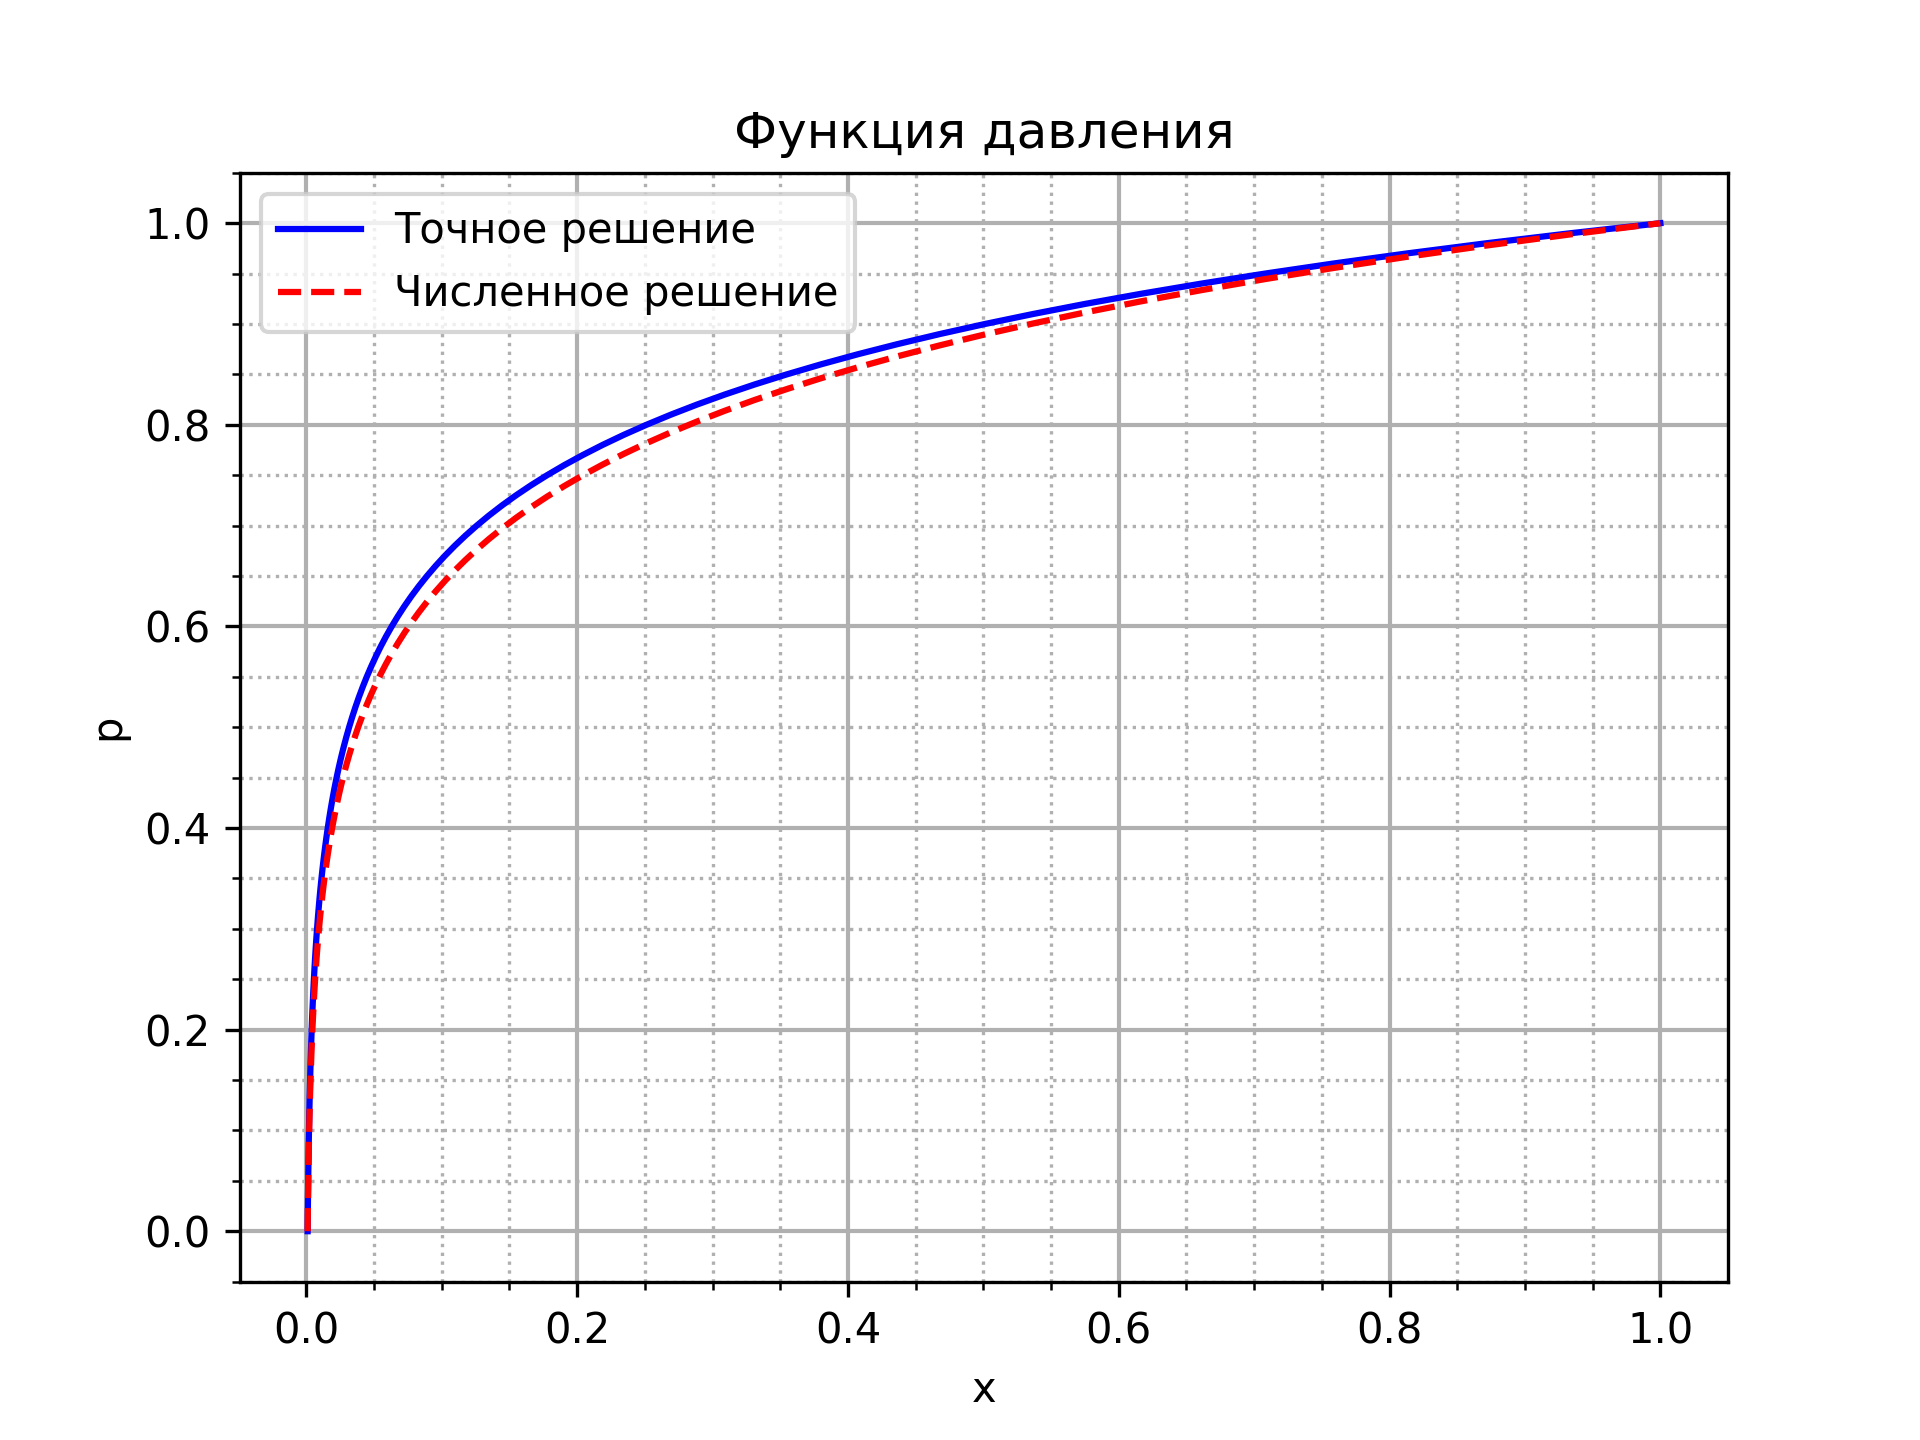
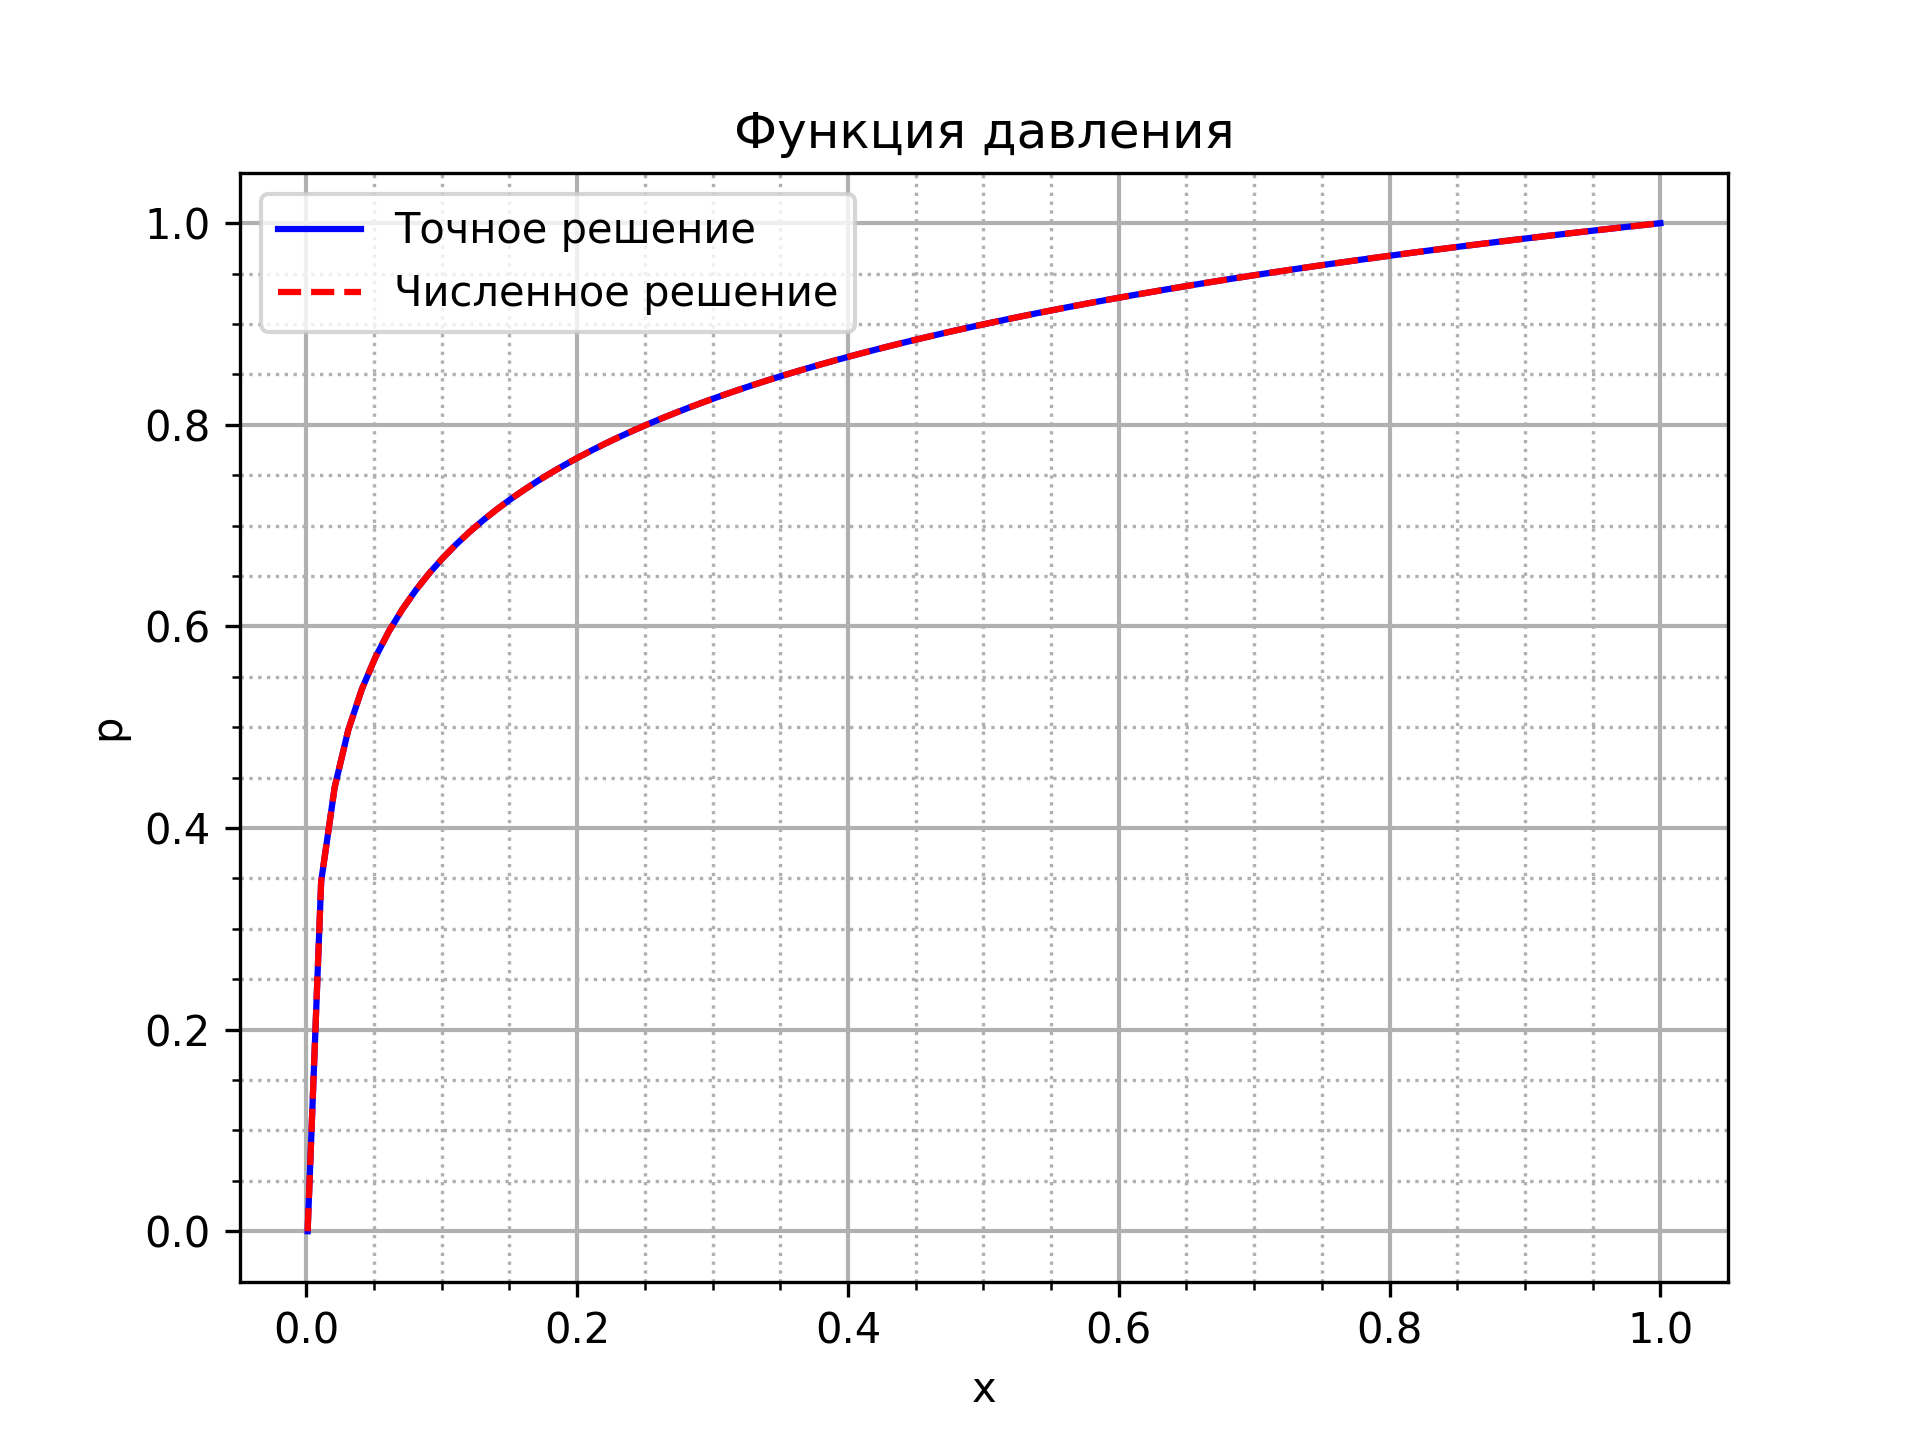
Задание 2.1 + u(rw,K)

diff --git a/Задание 2.1/main.py b/Задание 2.1/main.py
@@ -1,47 +1,18 @@
 from classes import *
-from matplotlib import pyplot as plt
 
-x = list(range(10, 1051,50))
-E1 = list()
-E2 = list()
-E3 = list()
+task = Task(1000, 0.001, True)
+task.generate_regular_grid()
+# task.generate_log_grid()
+task.make_matrix()
+task.solve_matrix()
+task.solve_error()
+task.solve_u()
+task.save_p_plot()
+# task.save_u_plot()
 
-for N in range(10, 1051,50):
-    task = Task(N, 0.001, False)
-    task.generate_regular_grid()
-    task.make_matrix()
-    task.solve_matrix()
-    task.solve_u()
-    task.solve_error()
-    E1.append(task.E)
-for N in range(10, 1051,50):
-    task = Task(N, 0.001, True)
-    task.generate_regular_grid()
-    task.make_matrix()
-    task.solve_matrix()
-    task.solve_u()
-    task.solve_error()
-    E2.append(task.E)
-for N in range(10, 1051,50):
-    task = Task(N, 0.001, True)
-    task.generate_log_grid()
-    task.make_matrix()
-    task.solve_matrix()
-    task.solve_u()
-    task.solve_error()
-    E3.append(task.E)
-plt.figure(1)
-# plt.plot(x,E1)
-plt.plot(x,E2)
-plt.plot(x,E3)
-plt.legend(('2','3'))
-plt.minorticks_on()
-plt.grid(which='major', linewidth=1)
-plt.grid(which='minor', linestyle=':')
-plt.grid(which='minor', linestyle=':')
-plt.show()
-# R, rw, k0, m, dp, mu = 100, 0.1, 1e-12, 0.2, 1e6, 1e-3
-# T = mu * m * math.log(R / rw) * (R ** 2 - rw ** 2) / 2 / k0 / (task.p[task.N] - task.p[0]) / dp
-#
-# with open(f'results.txt', 'w', encoding='utf-8') as file:
-#     file.write(f'Время прохождения частицы между галереями: {T}')
+R, rw, k0, m, dp, mu = 100, 0.1, 1e-12, 0.2, 1e6, 1e-3
+T = mu * m * math.log(R / rw) * (R ** 2 - rw ** 2) / 2 / k0 / (task.p[task.N] - task.p[0]) / dp
+
+with open(f'results.txt', 'w', encoding='utf-8') as file:
+    file.write(f'Время прохождения частицы между галереями: {T}')
+

diff --git a/Задание 2.1/Error_solve.py b/Задание 2.1/Error_solve.py
@@ -1,16 +1,37 @@
+import matplotlib.pyplot as plt
+
 from classes import *
 
-N = [10 + i for i in range(0, 991, 10)]
-errors = np.zeros(len(N))
+N = list(range(10, 1000, 20))
+errors1 = np.zeros(len(N))
+errors2 = np.zeros(len(N))
+errors3 = np.zeros(len(N))
 for i, n in enumerate(N):
     task = Task(n, 0.001)
     task.generate_regular_grid()
     task.make_matrix()
     task.solve_matrix()
     task.solve_error()
-    errors[i] = task.E
-plt.plot(N, errors, 'r')
+    errors1[i] = task.E
+for i, n in enumerate(N):
+    task = Task(n, 0.001, True)
+    task.generate_regular_grid()
+    task.make_matrix()
+    task.solve_matrix()
+    task.solve_error()
+    errors2[i] = task.E
+for i, n in enumerate(N):
+    task = Task(n, 0.001)
+    task.generate_log_grid()
+    task.make_matrix()
+    task.solve_matrix()
+    task.solve_error()
+    errors3[i] = task.E
+plt.plot(N, errors1, 'r')
+plt.plot(N, errors2, 'g')
+plt.plot(N, errors3, 'b')
 plt.title('Погрешность давления')
+plt.legend(('Р.С. без поправки)', 'Р.С. с поправкой', 'Л.С.'))
 plt.minorticks_on()
 plt.grid()
 plt.xlabel('N')
@@ -19,4 +40,4 @@ plt.minorticks_on()
 plt.grid(which='major', linewidth=1)
 plt.grid(which='minor', linestyle=':')
 plt.grid(which='minor', linestyle=':')
-plt.savefig('Погрешность от сетки (регулярная сетка)', dpi=300)
+plt.savefig('Погрешность от сетки', dpi=300)

diff --git a/Задание 2.1/classes.py b/Задание 2.1/classes.py
@@ -56,7 +56,7 @@ class Task:
             eq_ind = i - 1
             self.__A[eq_ind][i - 1] = -(self.x[i] + self.x[i - 1]) * self.tetta[i - 1] / 2 / self.spaces[i - 1]
             self.__A[eq_ind][i] = (self.x[i + 1] + self.x[i]) * self.tetta[i] / 2 / self.spaces[i] + (
-                        self.x[i] + self.x[i - 1]) * self.tetta[i - 1] / 2 / self.spaces[i - 1]
+                    self.x[i] + self.x[i - 1]) * self.tetta[i - 1] / 2 / self.spaces[i - 1]
             self.__A[eq_ind][i + 1] = -(self.x[i + 1] + self.x[i]) * self.tetta[i] / 2 / self.spaces[i]
         eq_ind = self.N - 1
         self.__A[eq_ind][0] = 1
@@ -118,8 +118,8 @@ class Task:
     def solve_u(self):
         self.__u = np.zeros(self.N + 1)
         for i in range(self.N):
-            self.__u[i] = self.tetta[i + 1] * (self.p[i] - self.p[i + 1]) / self.spaces[i]
-        self.__u[self.N] = self.tetta[self.N - 1] * (self.p[self.N - 1] - self.p[self.N]) / self.spaces[self.N - 1]
+            self.__u[i] = (self.p[i] - self.p[i + 1]) / self.spaces[i]
+        self.__u[self.N] = (self.p[self.N - 1] - self.p[self.N]) / self.spaces[self.N - 1]
 
     def show_u(self):
         plt.figure(3)

diff --git a/Задание 2.2/u(rw,K).py b/Задание 2.2/u(rw,K).py
@@ -47,7 +47,7 @@ for R in [0.01, 0.02, 0.05, 0.1, 0.2, 0.5]:
         with open('zone_info(u(rw,K))).txt', 'r') as file:
             zone_coordinates = np.array(list(map(float, file.readline().split())))
             zone_f = np.array(list(map(float, file.readline().split())))
-        zone_coordinates[0] = R
+        zone_coordinates[0] /= R
         zone_f[1] = K
         NN = len(zone_coordinates) - 1
         zone_lengths = [zone_coordinates[i + 1] - zone_coordinates[i] for i in range(NN)]
